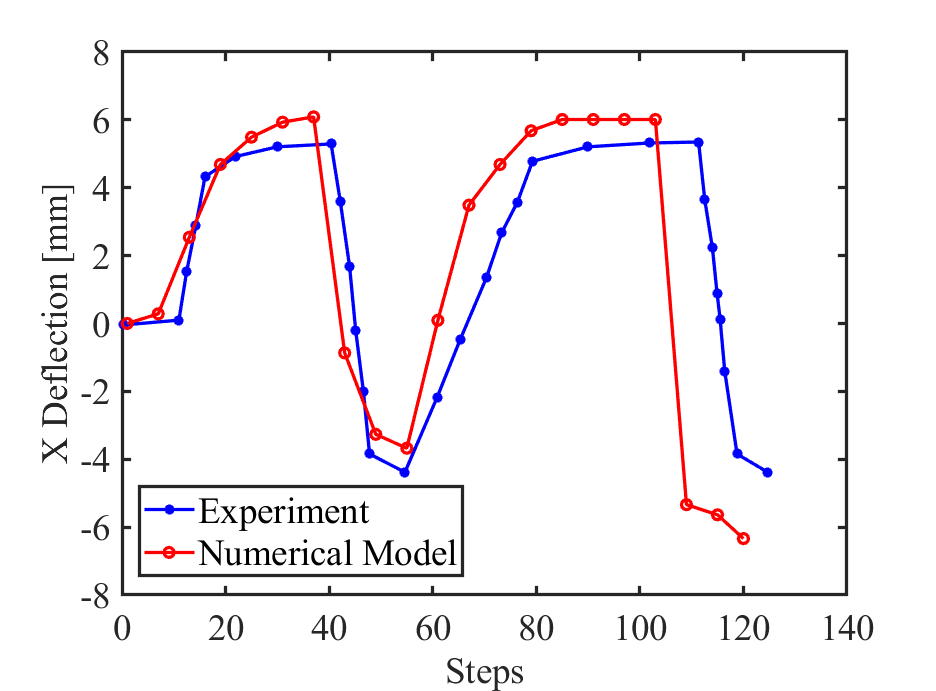
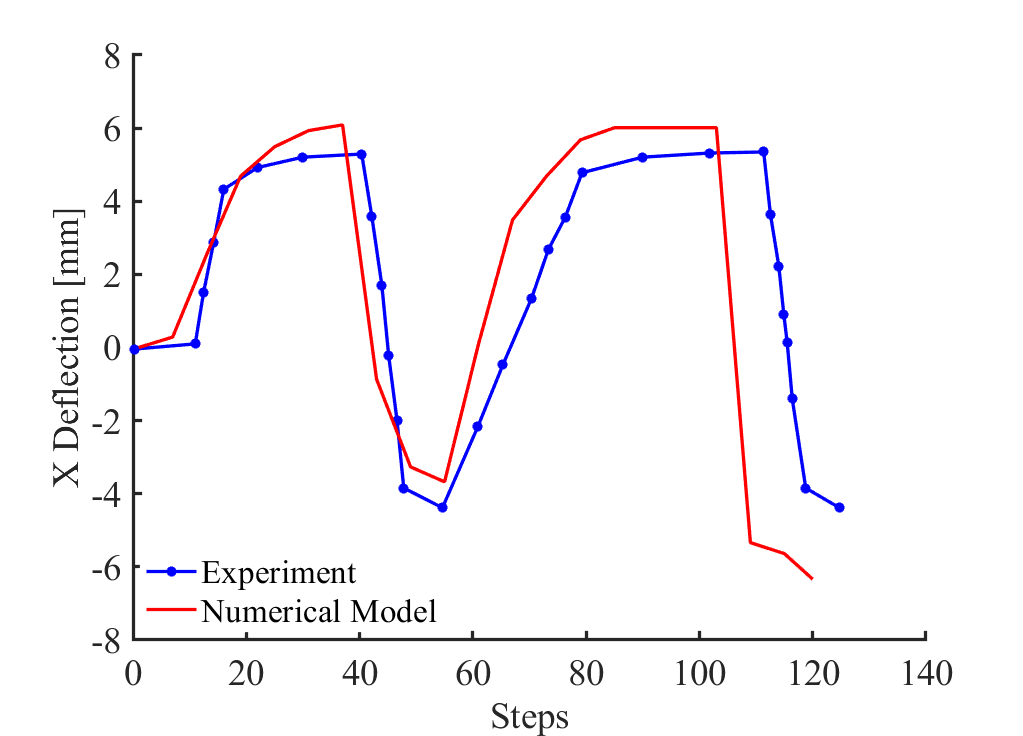
Add files via upload

diff --git a/TransientValidation.m b/TransientValidation.m
@@ -99,7 +99,7 @@ S1 = [
 figure(1);
 plot(10 * S, S1, 'b*-', 'DisplayName', 'Experiment');
 hold on;
-plot(ValY(:, 1), ValY(:, 2), 'ro-', 'DisplayName', 'Numerical Model');
+plot(ValY(:, 1), ValY(:, 2), 'r-', 'DisplayName', 'Numerical Model');
 ylabel('Y Deflection [mm]', 'FontSize', 20);
 xlabel('Steps', 'FontSize', 20);
 legend;
@@ -109,7 +109,7 @@ hold off;
 figure(2);
 plot(ValEPY(:, 1), ValEPY(:, 2), 'b*-','DisplayName', 'Experiment');
 hold on;
-plot( ValX(:, 1), ValX(:, 2), 'ro-', 'DisplayName', 'Numerical Model');
+plot( ValX(:, 1), ValX(:, 2), 'r-', 'DisplayName', 'Numerical Model');
 
 ylabel('X Deflection [mm]', 'FontSize', 20);
 xlabel('Steps', 'FontSize', 20);
